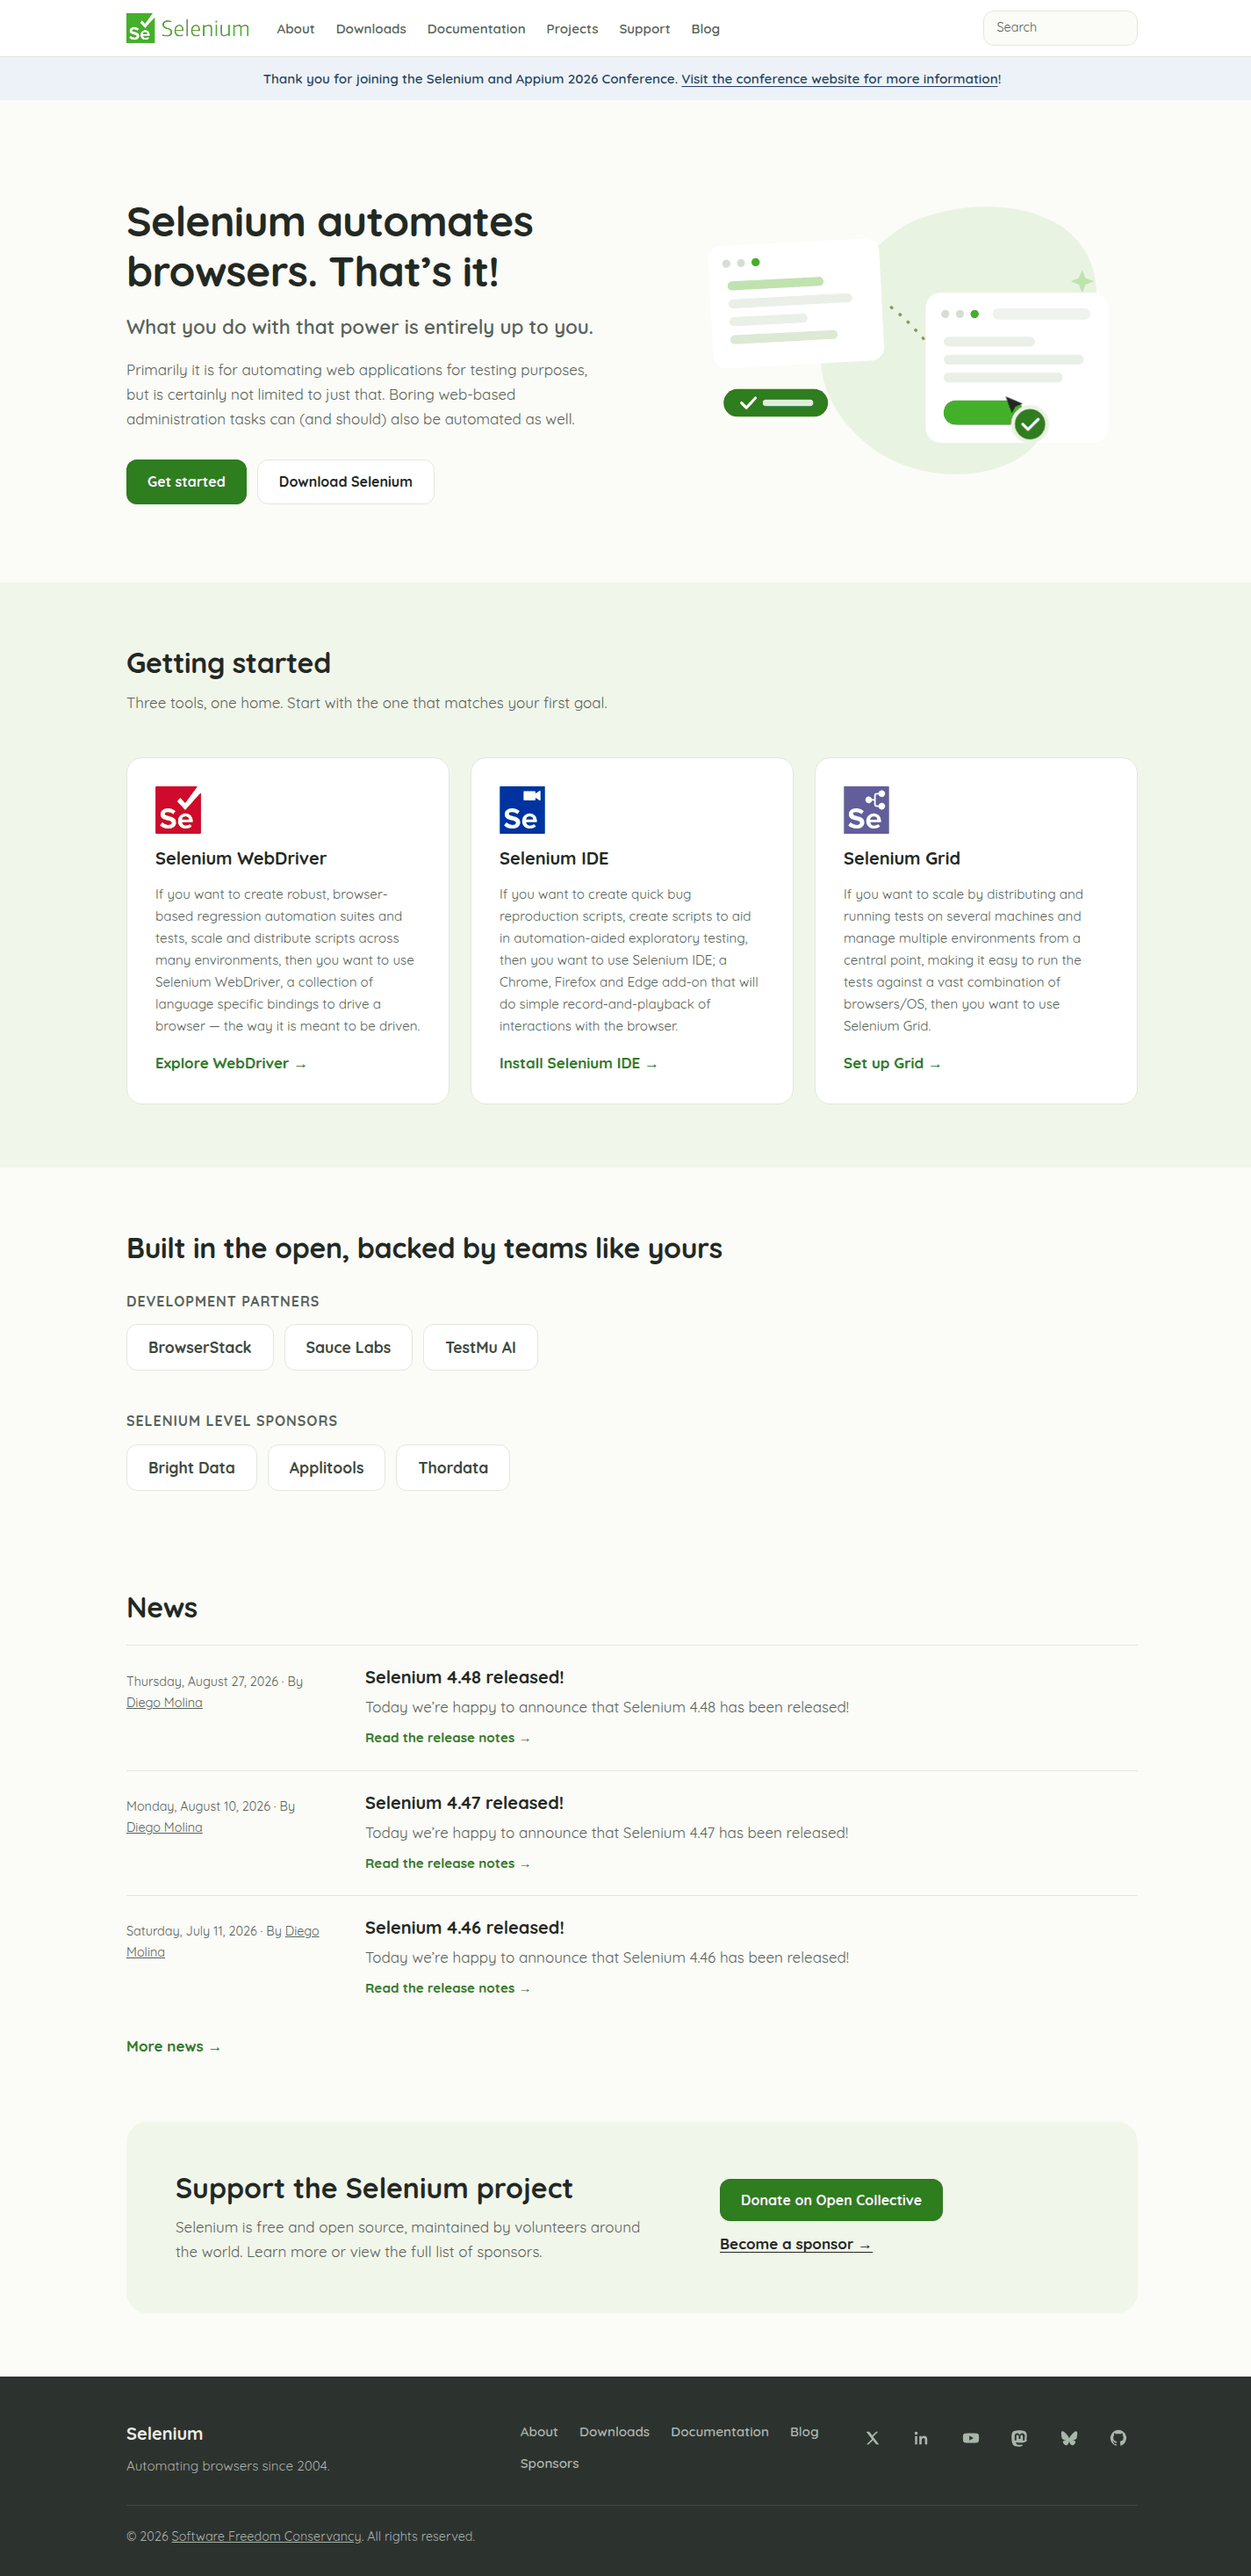
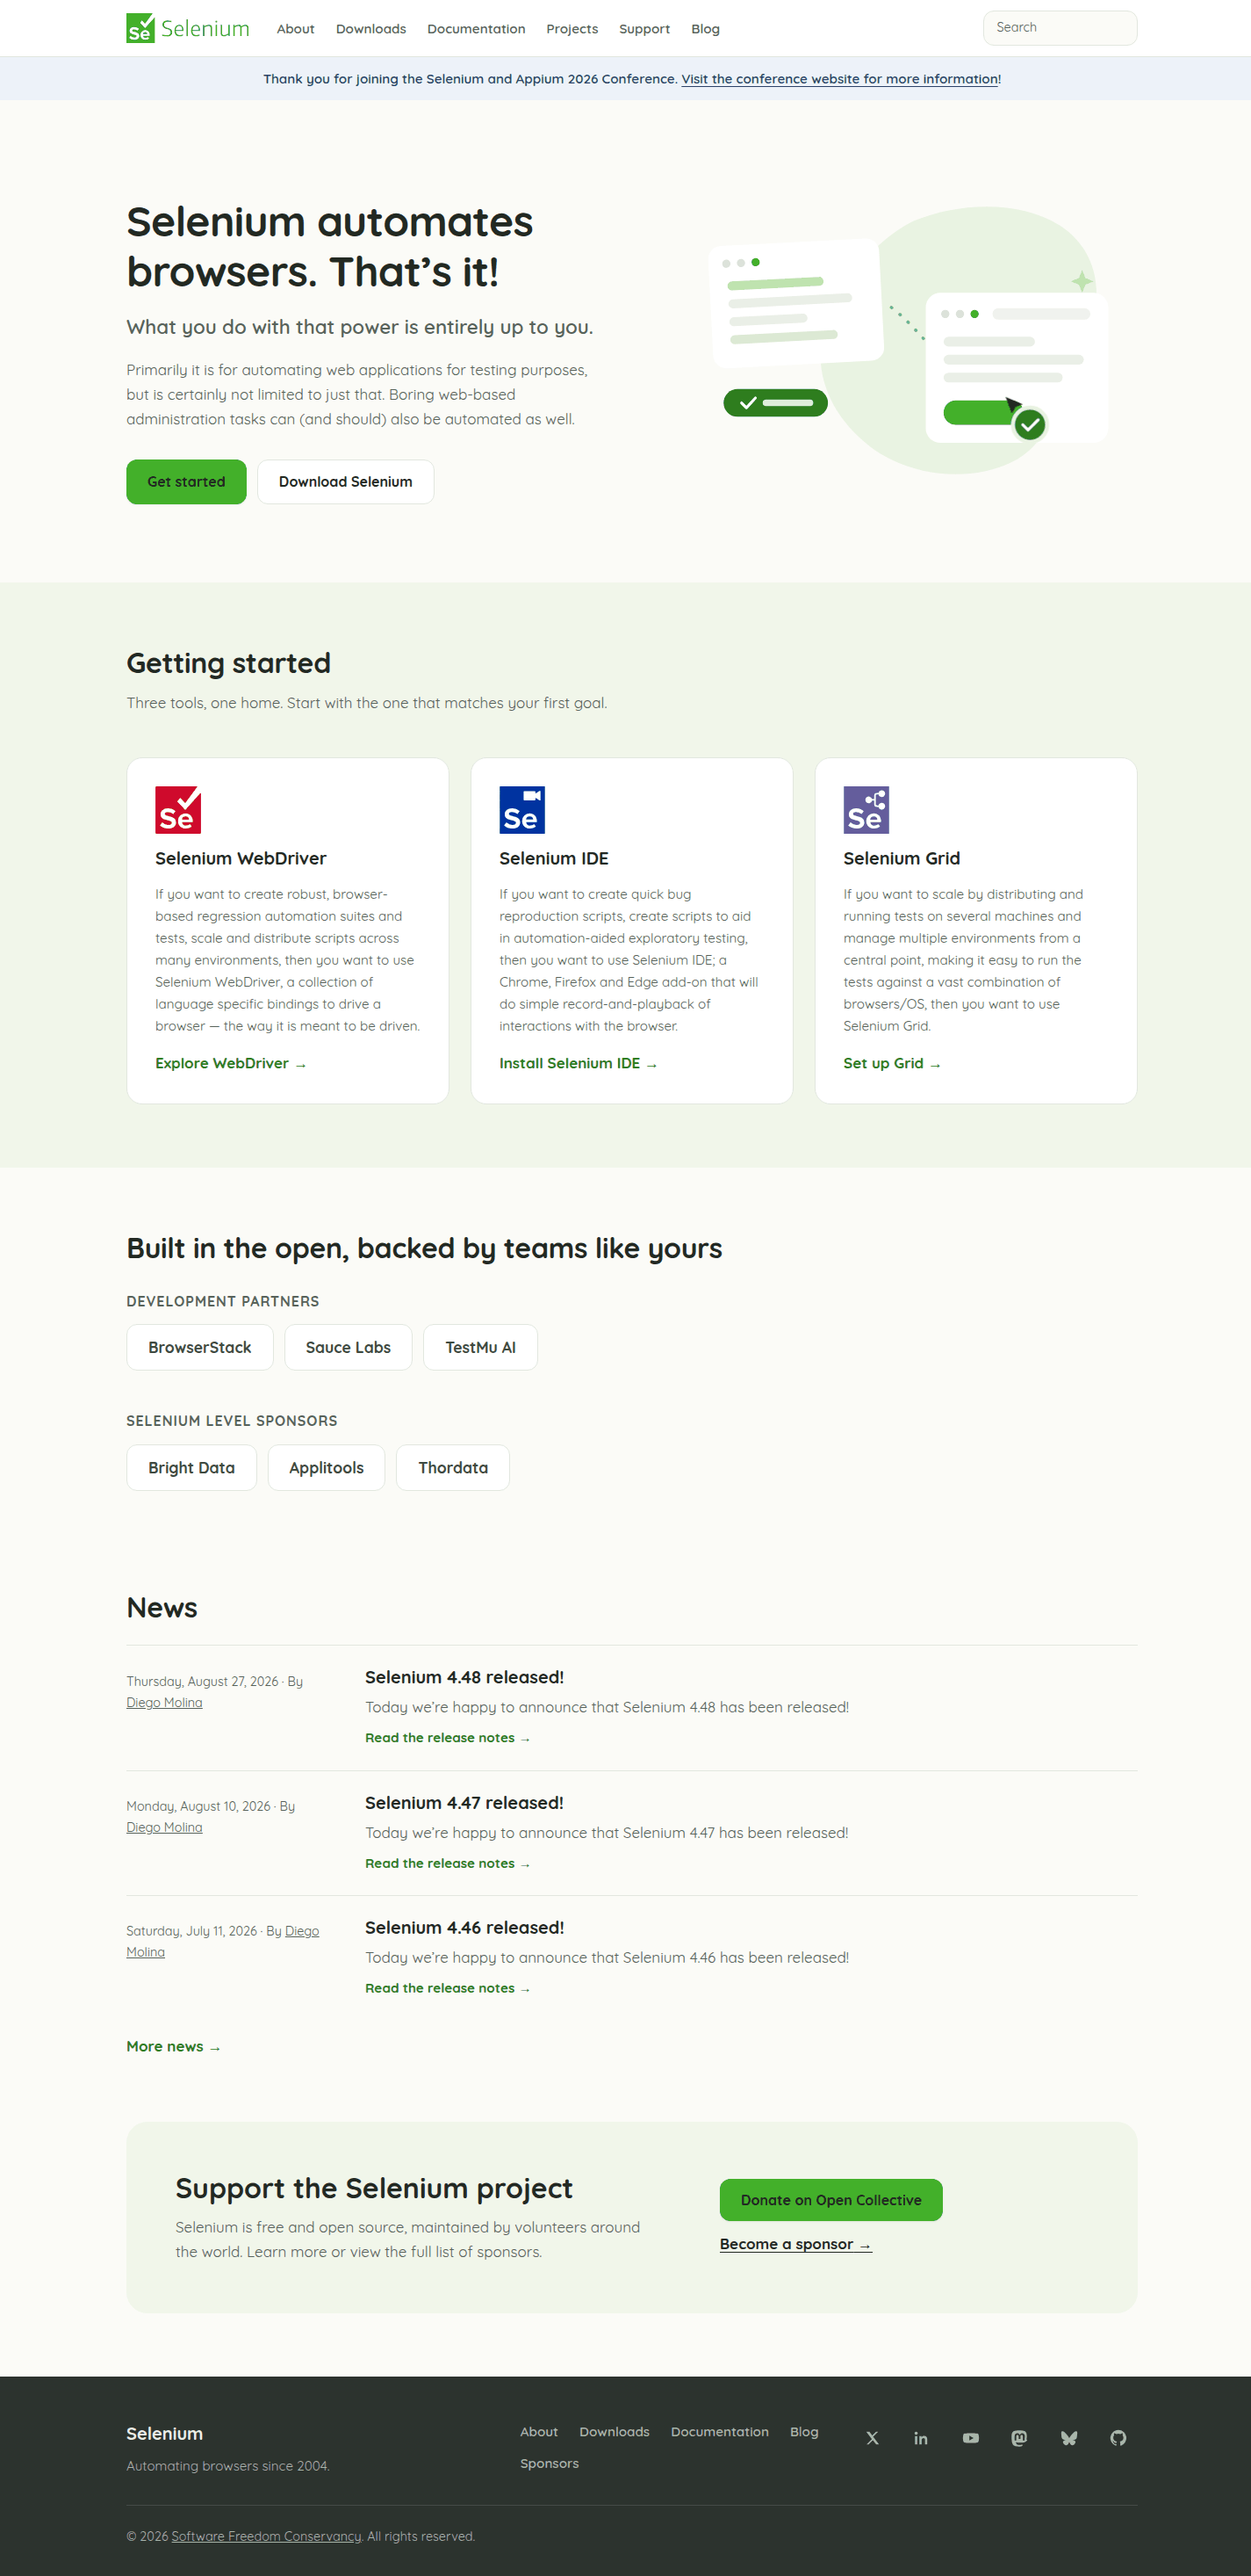
fix(demos): Selenium 示範主按鈕改用品牌原始綠 #43B02A
以深墨色文字取代白字，使按鈕能直接使用 Logo 同色的品牌綠並符合
AA 對比（5.3:1）；連結續用同色相加深的 #2E7D1E 維持文字可讀性。
重新擷取 after 截圖並更新配色筆記。

Changed region(s): [[0.5558, 0.838, 0.7719, 0.869], [0.0926, 0.1552, 0.2161, 0.2173]]

diff --git a/demos/selenium/notes.md b/demos/selenium/notes.md
@@ -10,7 +10,7 @@ Sampled from the live site before designing:
 
 | Sampled | Value | Becomes |
 | --- | --- | --- |
-| Logo / hero green | `#43B02A` | Illustration and focal accents; darkened to `#2E7D1E` for the action role so buttons and links pass WCAG AA (5.2:1 on white) |
+| Logo / hero green | `#43B02A` | Primary button fill (with dark ink text, 5.3:1) and illustration focal accents — kept at the exact brand value; same hue darkened to `#2E7D1E` for links and text pairings that must pass WCAG AA on white (5.2:1) |
 | Announcement blue | `#4C6FBC` | Lightened to a quiet tonal announcement band `#EDF2F9` with dark blue ink |
 | Footer | `#403F4C` | Softened to a green-neutral dark `#2C332E` |
 | Body text | `#343A40` | Softened ink `#222922` |
